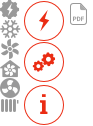
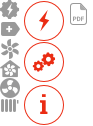
change information in first table

Changed region(s): [[0.0, 0.1429, 0.2151, 0.3095]]

diff --git a/erp-microsite-en/assets/less/landing.less b/erp-microsite-en/assets/less/landing.less
@@ -557,6 +557,7 @@ a{transition: color .3s, background-color .3s, text-decoration .3s, font-weight 
  * ICONS
  **/
 
+
 .cssSprite( @spriteVals ) {
 	display: inline-block;
 	vertical-align: middle;
@@ -572,7 +573,7 @@ a{transition: color .3s, background-color .3s, text-decoration .3s, font-weight 
 }
 @iconsPath: '../img/icons';
 @iconsURL: '@{iconsPath}.png';
-@iconsx2URL: '@{iconsPath}@2x.png';
+@iconsx2URL: '@{iconsPath}@2.png';
 @bgiSizeW: 93px;
 @bgiSizeH: 126px;
 @pdf-icon: 17px 22px @iconsURL -70px -3px @iconsx2URL;
@@ -580,7 +581,7 @@ a{transition: color .3s, background-color .3s, text-decoration .3s, font-weight 
 @requisites-icon2: 40px 40px @iconsURL -24px -42px @iconsx2URL;
 @requisites-icon3: 40px 40px @iconsURL -24px -85px @iconsx2URL;
 @product-type-icon1: 20px 19px @iconsURL 0px 0px @iconsx2URL;
-@product-type-icon2: 21px 18px @iconsURL 0px -20px @iconsx2URL;
+@product-type-icon2: 20px 14px @iconsURL -1px -22px @iconsx2URL;
 @product-type-icon3: 18px 20px @iconsURL -1px -39px @iconsx2URL;
 @product-type-icon4: 21px 18px @iconsURL 0px -60px @iconsx2URL;
 @product-type-icon5: 20px 20px @iconsURL 0px -78px @iconsx2URL;

diff --git a/erp-microsite-en/index.html b/erp-microsite-en/index.html
@@ -88,9 +88,9 @@
                   <td><i class="pdf-icon"></i></td>
                 </tr>
 
-                <tr class="link-row wow fadeInDown" data-wow-delay=".1s" data-url="http://eur-lex.europa.eu/legal-content/EN/TXT/PDF/?uri=CELEX:32012R0206&amp;qid=1456832436839&amp;from=EN">
+                <tr class="link-row wow fadeInDown" data-wow-delay=".1s" data-url="http://eur-lex.europa.eu/legal-content/EN/TXT/PDF/?uri=CELEX:32014R1254&amp;from=ES">
                   <td><i class="product-type-icon2"></i></td>
-                  <td><div class="product-type-name">Air conditioning equipment</div> <div class="product-type-reg">Reg. 206/2012</div></td>
+                  <td><div class="product-type-name">Energy labelling</div> <div class="product-type-reg">Reg. 1254/2014</div></td>
                   <td><i class="pdf-icon"></i></td>
                 </tr>
 
